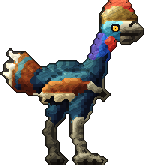
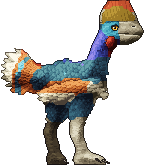
Anzu painted in HD; a plate helper for crests (Painter.Plane)
Teal contour feathers, a fan of long tail feathers, the orange wing
edged in cream, a gold casque lit as a plate with growth lines, a glossy
pale beak, a bare blue-purple neck with its red wattle, pale scaly
near shank and the far one in shadow.

The neck now bows from a cut across its root, clear of the back, and a
joint turned far is swept through enough angles that it leaves no comb
of rays (dinorig.go: turn).

Changed region(s): [[0.0, 0.0, 0.96, 1.0]]

diff --git a/internal/dinopaint/anzu.go b/internal/dinopaint/anzu.go
@@ -1,0 +1,143 @@
+package dinopaint
+
+// Anzu: dinos/anzu.png, 50 x 55, facing right: a cassowary of a dinosaur,
+// teal feathers, a gold casque with a coral top, a cyan face, a bare blue
+// and purple neck with a red wattle, an orange wing edged in cream, a fan
+// of a tail, a pale beak. Its rig is "anzu" in internal/client/dinorigs.go:
+// hips (27, 31) and (18, 31), knees (27.5, 40) and (17.5, 40), ankles
+// (25.5, 46.5) and (16, 45); the legs are cut from row 36, columns 23-36
+// (near) and 13-22 (far); the head and neck turn about (30.5, 24.5), the
+// beak opens about (39.5, 11.5) along the line to (46, 11.8), and the tail
+// turns about (11, 24).
+
+func init() { Register(anzu()) }
+
+var (
+	anzuIris  = []uint32{0x5a3204, 0x8e5608, 0xc88412, 0xf0ac26, 0xffc84c, 0xffe08c}
+	anzuHorn  = []uint32{0x2a2418, 0x433a2a, 0x5e5440, 0x7c7058, 0x9a8e74, 0xb6ac90, 0xccc4aa, 0xe0dac4}
+	anzuClaws = []uint32{0x14100e, 0x2a221c, 0x463c32, 0x6a5e50, 0x948874, 0xbcb29c}
+)
+
+func anzu() *Species {
+	farLeg := Union(
+		Cone(17.8, 33, 3.5, 17.5, 40, 2.3),
+		Cone(17.5, 40, 1.6, 16.2, 45, 1.2),
+		Cone(16.2, 45, 1.1, 17.4, 51.6, 1.0),
+		Cone(17.4, 52.4, 1.0, 21.9, 53.6, 0.7),
+	)
+	nearLeg := Union(
+		Cone(27, 33, 3.8, 27.5, 40, 2.5),
+		Cone(27.5, 40, 1.7, 25.6, 46.5, 1.25),
+		Cone(25.6, 46.5, 1.15, 27, 51.6, 1.0),
+		Cone(27, 52.4, 1.05, 35, 53.6, 0.75),
+	)
+	body := Blend(2.5,
+		Path([3]float64{14, 25.5, 4}, [3]float64{8, 23.5, 5}, [3]float64{3, 23, 5.5}), // the tail and its fan
+		Ellipse(24.5, 27.5, 9.5, 5.6, 0),
+		Cone(31, 24, 4, 33.6, 13, 2.6),                                                                          // the neck
+		Poly(33.5, 7, 36, 6.4, 43, 6.6, 46, 7.4, 48.4, 9.6, 48.4, 11.6, 47, 13.6, 41, 14, 38.4, 16.4, 34, 14.5), // the head
+	)
+	casque := Poly(33.3, 7.6, 33.5, 3.4, 35.6, 0.3, 42.8, 0.1, 44.8, 2.6, 45.4, 6.8, 41, 7.4)
+	jaw := Poly(39.6, 11.3, 46.8, 11.6, 46.4, 12.9, 42, 13.9, 39.6, 13.3)
+	wattle := Ellipse(36.8, 13.9, 1.55, 2.1, 0.4)
+	wing := Poly(33.4, 26.4, 32.8, 30.6, 26, 31.9, 14.4, 33.5, 13.2, 30.4, 18, 28.2, 26, 26.8, 30, 26)
+	beak := Poly(39.6, 7.1, 44.6, 7.0, 47.6, 8.4, 48.3, 10.6, 47.2, 12.8, 43, 13.8, 40.4, 13.6, 39.4, 11)
+	return &Species{
+		Name:        "anzu",
+		GuideDetail: 0.35,
+		Ink:         24,
+		Materials: []Material{
+			{Name: "teal", Seeds: []uint32{0x4c8c96, 0x2f6074, 0x21425a, 0x182c44, 0x111c30, 0x1a3540, 0x2a4d52, 0x426e81, 0x5c969f, 0x355369, 0x1d2e3a, 0x243d47},
+				Ramp: []uint32{0x0c121c, 0x14202e, 0x1c3040, 0x244256, 0x2e566c, 0x3a6c80, 0x4c8694, 0x66a2aa}},
+			{Name: "cyan", Seeds: []uint32{0x8cdce0, 0x4cb2c8, 0x2c86a4, 0x1c5a7a, 0x7cb8b4},
+				Ramp: []uint32{0x0e2a3a, 0x164058, 0x1e5a76, 0x2a7a96, 0x3c9ab2, 0x58b6c8, 0x7ccedc, 0xa6e4ec}},
+			{Name: "purple", Seeds: []uint32{0x7a6ad8, 0x5644ba, 0x3c82e2, 0x2658c2, 0x1a3a92, 0x12245e, 0x231d31},
+				Ramp: []uint32{0x120e2a, 0x1c1846, 0x262668, 0x323a8e, 0x3e50b2, 0x5462cc, 0x7474dc, 0x9a90ea}},
+			{Name: "red", Seeds: []uint32{0xd23428, 0xa01c1c, 0x2a0e0d, 0x34130f},
+				Ramp: []uint32{0x240707, 0x380a0a, 0x500f0e, 0x6c1612, 0x8a1e16, 0xa8281c, 0xc43a26, 0xdc5a3c}},
+			{Name: "coral", Seeds: []uint32{0xf06a48, 0x3a1d15},
+				Ramp: []uint32{0x3a1410, 0x5a1e16, 0x7e2c1c, 0xa23c24, 0xc4502e, 0xdc663a, 0xf0824e, 0xfaa46c}},
+			{Name: "gold", Seeds: []uint32{0xecd080, 0xd0aa50, 0xcbb36e, 0xb39245, 0xa88034, 0x906e2d, 0x7a5622, 0xd8c997, 0xfbeab0, 0x4e3214, 0x432b11},
+				Ramp: []uint32{0x2a1c0a, 0x42300e, 0x5e4614, 0x7e601c, 0x9e7c28, 0xbc9838, 0xd6b654, 0xecd486}},
+			{Name: "orange", Seeds: []uint32{0xe29446, 0xc4682a, 0x9a421e, 0x7b3518, 0x6e2a16, 0x9d5322, 0xb57638, 0x582212, 0x45180e, 0x37130b},
+				Ramp: []uint32{0x2a0e08, 0x44180c, 0x642612, 0x863a1a, 0xa85224, 0xc66c30, 0xde8a42, 0xf0aa62}},
+			{Name: "cream", Seeds: []uint32{0xfdf6dc, 0xf0e4bc, 0xd2c08e, 0xbcb494, 0xa89468},
+				Ramp: []uint32{0x4a4036, 0x6a5e4c, 0x8c7e66, 0xaea080, 0xcabe9c, 0xe0d6b8, 0xf0e8d0, 0xfcf8ea}, Bias: 0.06},
+			{Name: "horn", Seeds: []uint32{0xd6ccac, 0xb0a482, 0x84785c, 0x5e5442, 0x3e372c, 0x787056, 0x58523f, 0x3c382e, 0x3c3832, 0x9c9474, 0x5e5442},
+				Ramp: anzuHorn},
+			{Name: "beak", Ramp: anzuHorn, Relief: 0.3, Region: beak},
+			{Name: "farHorn", Ramp: []uint32{0x16120e, 0x221c16, 0x30281e, 0x403628, 0x524632, 0x64583e, 0x786a4c, 0x8a7c5c}},
+			{Name: "eye", Seeds: []uint32{0xffc032}, Ramp: anzuIris},
+		},
+		Recolor: []Recolor{
+			{Region: Circle(38.3, 9.2, 1.5), From: []string{"eye", "teal", "horn"}, To: "cyan"}, // the eye is painted again
+			{Region: Poly(10, 36, 40, 36, 40, 56, 10, 56), From: []string{"cream"}, To: "horn"},
+			{Region: Poly(0, 0, 50, 0, 50, 7.4, 0, 7.4), From: []string{"red"}, To: "coral"},
+			{Region: Poly(0, 22, 50, 22, 50, 56, 0, 56), From: []string{"purple"}, To: "teal"},
+			{Region: Poly(12, 40.6, 23, 40.6, 23, 56, 12, 56), From: []string{"horn", "teal"}, To: "farHorn"}, // the far shank, in shadow
+		},
+		Parts: []Part{
+			{Name: "farLeg", Shape: farLeg, Far: true, Round: 2.6, Scale: 0.6, Muscles: []Muscle{
+				Mu(17.8, 34, 3, 3.2, 0, 1.0),
+			}},
+			{Name: "body", Shape: body, Round: 7, RoundAt: func(x, y float64) float64 {
+				return lerp(7, 3, smoothstep(29, 33, x))
+			}, Muscles: []Muscle{
+				Mu(23.5, 26, 7, 4, 0, 0.9),        // the ribs
+				Mu(30, 23.5, 3, 3.5, 0.3, 0.7),    // the base of the neck
+				Mu(35.6, 9.4, 2.2, 1.5, 0, 0.5),   // the cheek
+				Mu(37.6, 7.6, 1.6, 0.7, 0, 0.6),   // the brow
+				Mu(43.4, 9.2, 3.4, 1.4, 0, 0.5),   // the beak
+				Mu(32.6, 16.5, 1.8, 4, 0.25, 0.6), // the neck
+			}},
+			{Name: "casque", Shape: casque, Round: 1.4, Soft: 0.5, Scale: 0.7},
+			{Name: "wattle", Shape: wattle, Round: 1.6, Soft: 0.5, Scale: 0.5, Mat: "red", Muscles: []Muscle{Mu(36.5, 13.5, 1.1, 1.4, 0.4, 0.4)}},
+			{Name: "jaw", Shape: jaw, Round: 0.9, Soft: 0.4, Scale: 0.5},
+			{Name: "nearLeg", Shape: nearLeg, Round: 2.8, Scale: 0.6, Onto: "body", Seam: Below(10, 32.5, 40, 32), Muscles: []Muscle{
+				Mu(27, 34, 3.2, 3.4, 0, 1.1),
+			}},
+			{Name: "wing", Shape: wing, Round: 2, Soft: 0.6, Muscles: []Muscle{
+				Mu(29, 28, 3, 1.6, -0.1, 0.6),
+			}},
+		},
+		Skin: Skin{Flank: 1.2, Back: 1.4, Belly: 1.0, BackDepth: 2, BellyDepth: 2, Relief: 0.9, Seed: 47},
+		Folds: []Fold{
+			{Pts: []float64{33.6, 12.5, 32.4, 16, 31.6, 19.5}, N: 3, DX: 0.9, DY: 0.2, Depth: 0.6}, // the bare neck's creases
+			{Pts: []float64{16, 46.5, 18.2, 46.5}, N: 4, DY: 1.4, Depth: 0.5},
+			{Pts: []float64{25, 47.5, 27.6, 47.5}, N: 4, DY: 1.3, Depth: 0.5},
+		},
+		Details: anzuDetails,
+	}
+}
+
+func anzuPlumage() *Plumage {
+	return &Plumage{Seed: 17, Edge: 0.4, Tracts: []Tract{
+		{Name: "farThigh", Region: Poly(11, 30, 23, 30, 23, 41, 11, 41), Parts: []string{"farLeg"},
+			Flow: Along(18, 31, 17.5, 40, 16, 45), Len: 2.4, Wid: 1.7, Fluff: 0.5, Snap: true},
+		{Name: "body", Region: Poly(11, 19.5, 34, 19.5, 36.5, 24, 36, 31, 30, 35, 13, 34), Parts: []string{"body", "wing"},
+			Flow: Along(34, 20.5, 28, 21.6, 20, 23.2, 13, 24.2), Len: 2.7, Wid: 1.9, Rows: 0.45, Jitter: 0.2, Fluff: 0.55, Snap: true},
+		// The fan of the tail, its long feathers spreading back and up.
+		{Name: "tail", Region: Poly(-1, 14, 12.5, 17, 14, 24, 12.5, 32, -1, 32), Parts: []string{"body"},
+			Flow: Fan(15, 25, 9, -2.85), Len: 5, Wid: 1.6, Rows: 0.34, Tip: 0.4, Shaft: 0.14, Fluff: 0.8, Grow: 0.02},
+		{Name: "nearThigh", Region: Poly(21, 30, 34, 30, 34, 40.6, 21, 40.6), Parts: []string{"nearLeg"},
+			Flow: Along(27, 31, 27.5, 40, 25.5, 46.5), Len: 2.4, Wid: 1.7, Fluff: 0.5, Snap: true},
+		// The folded wing: orange, its feathers edged in cream along the bottom.
+		{Name: "wing", Region: Poly(33.4, 26.2, 32.6, 30.8, 26, 32.2, 14, 33.8, 13, 30.4, 18, 28, 26, 26.5, 30, 25.8), Parts: []string{"wing"},
+			Flow: Along(33, 27.5, 27, 28.8, 20, 30.4, 13, 31.4), Len: 4.4, Wid: 1.5, Rows: 0.36, Tip: 0.5, Shaft: 0.1, Fluff: 0.4, Snap: true},
+	}}
+}
+
+func anzuDetails(p *Painter) {
+	p.Plumage(anzuPlumage())
+	// The casque: a plate of horn, lit flat, with growth lines up it.
+	p.Plane(PlaneSpec{Region: Poly(33.3, 7.6, 33.5, 3.4, 35.6, 0.3, 42.8, 0.1, 44.8, 2.6, 45.4, 6.8, 41, 7.4),
+		Mat: []string{"gold", "coral", "red"}, Tilt: 0.15, Angle: 1.35, Gap: 1.1, Lines: 0.07, FromX: 36, FromY: 2, Fall: 0.03, Seed: 3})
+	p.Beak(BeakSpec{Mat: "beak", Ridge: []float64{39.8, 7.1, 44, 7.3, 47, 8.6, 48.2, 10.6},
+		Mouth: []float64{39.6, 11.2, 43.5, 11.4, 46.8, 11.7}, Gloss: 0.22, Nostril: [2]float64{44.6, 8.8}, NoseR: 0.5,
+		LowerShadow: 0.14, GrainSeed: 5})
+	p.Eye(EyeSpec{X: 38.3, Y: 9.2, R: 0.8, Iris: anzuIris, Lid: 0.2, Squint: 1.15})
+	// The claws: the hand's under the wing, and three on each foot.
+	p.Claw(21.4, 53.6, 23.0, 54.4, 0.7, 0.2, anzuClaws)
+	p.Claw(34.4, 53.5, 36.6, 54.4, 0.8, 0.2, anzuClaws)
+	p.Claw(32.2, 53.0, 33.8, 54.2, 0.6, 0.2, anzuClaws)
+}

diff --git a/internal/dinopaint/plane.go b/internal/dinopaint/plane.go
@@ -1,0 +1,84 @@
+package dinopaint
+
+import "math"
+
+// Planes and grain: a crest or a casque is a thin plate seen side on, not a
+// rounded mass. Plane lights the pixels of a material inside a region as one
+// flat face tilted towards (or away from) the light, with a bright rim along
+// the edge that faces the light and a dark one along the other, and fine
+// growth lines across it.
+
+// PlaneSpec is a flat plate: where it is (Region, and only over material
+// Mat), how it faces (Tilt: -1 away from the light, +1 towards it), how
+// its growth lines run (Angle, radians, Gap apart in guide pixels; Lines 0:
+// none) and how much the light falls off along it, from (FromX, FromY).
+type PlaneSpec struct {
+	Region       SDF
+	Mat          []string
+	Tilt         float64
+	Angle, Gap   float64
+	Lines        float64
+	FromX, FromY float64
+	Fall         float64 // the light lost per guide pixel from (FromX, FromY)
+	Rim          float64 // how bright the lit rim is (0: 0.2)
+	Seed         uint32
+}
+
+// Plane relights a plate: a face of one light, its rims, its growth lines.
+func (p *Painter) Plane(s PlaneSpec) {
+	rim := s.Rim
+	if rim == 0 {
+		rim = 0.2
+	}
+	mats := map[int]bool{}
+	for _, m := range s.Mat {
+		mats[p.MatID(m)] = true
+	}
+	ca, sa := math.Cos(s.Angle), math.Sin(s.Angle)
+	base := LightOn(norm3(0, 0, 1)) + 0.12*s.Tilt
+	for py := 0; py < p.H; py++ {
+		for px := 0; px < p.W; px++ {
+			i := py*p.W + px
+			if !p.In[i] || p.Pro[i] || (len(mats) > 0 && !mats[p.Mat[i]]) {
+				continue
+			}
+			x, y := G(px, py)
+			if d := -s.Region(x, y); d < 0 {
+				continue
+			}
+			edge := false
+			for _, o := range [4][2]int{{1, 0}, {-1, 0}, {0, 1}, {0, -1}} {
+				if !p.Inside(px+o[0], py+o[1]) {
+					edge = true
+				}
+			}
+			if edge {
+				continue // the outline stays
+			}
+			// The edge: which way it faces, from the silhouette's slope.
+			gx := p.Sil.At(px+1, py) - p.Sil.At(px-1, py)
+			gy := p.Sil.At(px, py+1) - p.Sil.At(px, py-1)
+			face := 0.0
+			if l := math.Hypot(gx, gy); l > 0 {
+				face = -(gx*light2x + gy*light2y) / l
+			}
+			sil := -p.Sil.V[i] // how far in from the outline
+			v := base - s.Fall*math.Hypot(x-s.FromX, y-s.FromY)
+			v = lerp(p.Val[i], v, smoothstep(0, 0.8, sil)) // the plate's own edge keeps the body's light
+			if sil < 0.9 && sil > 0.3 {
+				v += rim * face // the bevel of its edge
+			}
+			if s.Lines > 0 && s.Gap > 0 {
+				t := (x*-sa + y*ca) / s.Gap
+				t += 0.35 * (fbm(x*0.6, y*0.6, s.Seed+5, 2) - 0.5)
+				if f := t - math.Floor(t); f < 0.22 {
+					v -= s.Lines
+				} else if f < 0.4 {
+					v += s.Lines * 0.4
+				}
+			}
+			p.Val[i] = v
+			p.Out[i] = p.Tone(p.Mat[i], v)
+		}
+	}
+}

diff --git a/internal/client/dinorig.go b/internal/client/dinorig.go
@@ -369,11 +369,14 @@ func turn(c *canvas, pr rigPart, a float64, joint float64) {
 	x0, x1 := max(0, int(pr.pivot.x-reach)-1), min(c.w, int(pr.pivot.x+reach)+2)
 	y0, y1 := max(0, int(pr.pivot.y-reach)-1), min(c.h, int(pr.pivot.y+reach)+2)
 	ux, uy := math.Cos(pr.dir), math.Sin(pr.dir)
-	const steps = 12
-	var sn, cs [steps + 1]float64 // the angles between, for the joint, from none to the turn itself
+	// The angles between, for the joint, from none to the turn itself: close
+	// enough that the joint's far side is swept without gaps, or a long neck
+	// bowed low leaves a comb of rays over the shoulders.
+	steps := max(12, min(160, int(math.Ceil(math.Abs(a)*reach))))
+	sn, cs := make([]float64, steps+1), make([]float64, steps+1)
 	cs[0] = 1
 	for k := 1; k <= steps; k++ {
-		sn[k], cs[k] = math.Sincos(-a * float64(k) / steps)
+		sn[k], cs[k] = math.Sincos(-a * float64(k) / float64(steps))
 	}
 	first := 0 // as drawn, too: no crack left along the cut
 	if joint <= 0 {

diff --git a/internal/client/dinorigs.go b/internal/client/dinorigs.go
@@ -152,7 +152,9 @@ var dinoRigs = map[string]dinoRig{
 			hind(23, 36, 36, rigPt{27, 31}, rigPt{27.5, 40}, rigPt{25.5, 46.5}, rigPt{27, 52}, rigPt{35.5, 54}),
 			hind(13, 22, 36, rigPt{18, 31}, rigPt{17.5, 40}, rigPt{16, 45}, rigPt{17.5, 52}, rigPt{22.5, 54}),
 		},
-		head: rigPart{pivot: rigPt{30.5, 24.5}, dir: headUp(1.1), maxY: 26},
+		// The neck bows from its root: a cut across it there, clear of the
+		// back, so bowing low sweeps only the neck's own width.
+		head: rigPart{pivot: rigPt{31, 22.5}, dir: headUp(0.785), maxY: 26},
 		jaw:  [2]rigPt{{39.5, 11.5}, {46, 11.8}},
 		far:  0b10,
 		tail: rigPart{pivot: rigPt{11, 24}, dir: math.Pi, maxY: 33},
